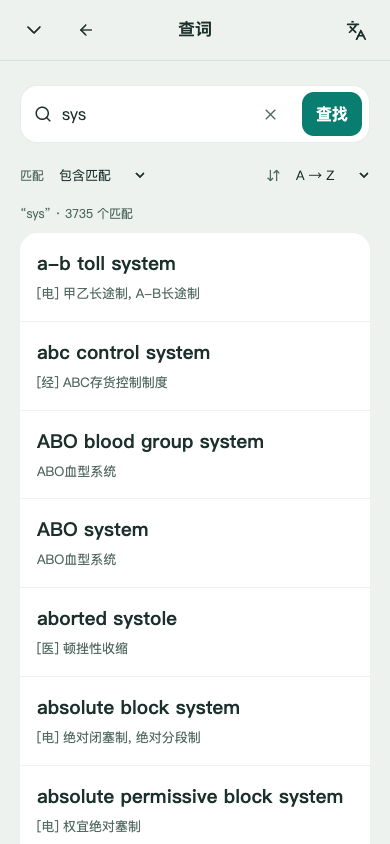
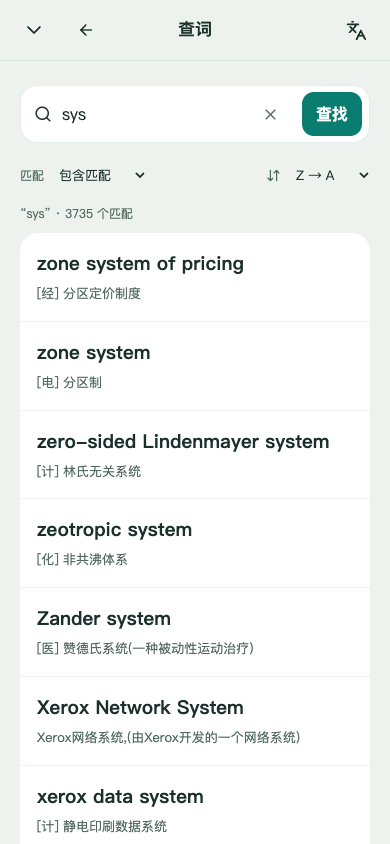
docs: record verified 0.11 release and deployments

diff --git a/docs/DEPLOYMENT.md b/docs/DEPLOYMENT.md
@@ -1,10 +1,10 @@
 # Alpha 运行与部署
 
-当前发布为 [`0.10.0-alpha.3`](https://github.com/wudi000888-svg/nightstudy/releases/tag/v0.10.0-alpha.3)，运行源码为 [`8cdb7fd3`](https://github.com/wudi000888-svg/nightstudy/commit/8cdb7fd31a39d7424fbd181d857466bf764cad9a)。[main CI](https://github.com/wudi000888-svg/nightstudy/actions/runs/38840374791) 与 [发行 CI](https://github.com/wudi000888-svg/nightstudy/actions/runs/38841110467) 均成功，公开镜像已完成匿名核验。本机 Native 与目标 VPS 均已升级并通过 `0.10.0-alpha.3` 就绪检查；固定镜像与升级范围见下文。
+当前发布为 [`0.11.0-alpha.1`](https://github.com/wudi000888-svg/nightstudy/releases/tag/v0.11.0-alpha.1)，运行源码为 [`8639ccaf`](https://github.com/wudi000888-svg/nightstudy/commit/8639ccaf66cec01f7b3f29f7bfe5893bec558108)。[main CI](https://github.com/wudi000888-svg/nightstudy/actions/runs/38856139140) 与 [发行 CI](https://github.com/wudi000888-svg/nightstudy/actions/runs/38856132567) 均成功，公开镜像已完成匿名核验。本机 Native 与目标 VPS 均已升级并通过 `0.11.0-alpha.1` 就绪检查；固定镜像与升级范围见下文。
 
-两端各 43 项 GET/HEAD 检查通过。移动视口另完成 Native 的 320、390、844 像素宽检查及 VPS 的 390 像素宽检查，分别发出 74、28 次匿名 GET；从 VPS 实际运行镜像提取并核验 84 份静态文件，包含 44 份预压缩文件；HTTP 比较使用这份服务器产物。这些是只读 HTTP 与浏览器验收，不包含生产学习写入、实体手机或逐条实际听审。
+两端各338项公开HTTP断言、120次匿名GET/HEAD通过，含服务端39份PWA静态资源的完整SHA/size/MIME。两端另各39项匿名Chromium手机视口检查通过，覆盖320/390/横屏、搜索分页、返回锚点、分义项例句与真实英美句音；无生产身份、收藏或评分写请求。这些不包含实体手机或逐条专家听审。
 
-0.10 未新增 Prisma schema 变更或 SQL 迁移，完整空库安装仍应用既有 15 份迁移；不能把“无新增迁移”写成新站不需要建表。内容覆盖为 18 本默认词书、18,767 个有效词目、69,840 条有效成员关系：实际学习焦点与查词首义有成对中英释义和词性，每词至少一条双语例句。该范围不等于 770,611 词典词目的全部义项、例句和发音均完备。文件、声学和结构校验不代替逐条专家语义审核或听辨；内容与音频详细范围见 [0.10 交付记录](CONTENT_BILINGUAL_POLISH_010.md)。
+0.11增加4个迁移，完整首装共19个；旧站从47张原表增量到50张表，保留旧记录。目录继续为18本、18,767个有效词目与69,840条成员关系；0.10词级内容作为来源和未绑定候选保留。新原子义项首包仅35词、98义、196条双语语境及392条英美句音，18,732词仍待逐义审核。未绑定句不借给其它意思，不宣称全词典770,611词逐义完备。范围、备份演练、上线与测试清理见 [0.11交付记录](LOOKUP_SENSES_011.md#15-发行与保数据升级状态)。
 
 Render、主机断电恢复、异机/密钥灾备、高并发容量及音源逐条专家听辨未验收。下文保留各历史版本的对应证据，标明版本的旧镜像与检查结果不代表当前运行版本。
 
@@ -26,7 +26,7 @@ docker compose up --build --detach --wait --wait-timeout 600 app
 # 用install.sh完成私密凭据导出；直接compose启动不会在宿主机生成导出文件。
 ```
 
-`init` 是新站完整初始化入口，运行 `pnpm db:prepare`：generate、逐站迁移、seed、首次管理员准备，再按 `CONTENT_PACK` 安装内容、按 `AUDIO_PACK` 安装音频并刷新音标覆盖统计。默认 `ecdict` 依次准备完整 ECDICT、考试词书、独立英美 IPA、词组，以及 v1、v2 双语文本；成品音频按 word-audio-v2、sentence-audio-v1、sentence-audio-v2 顺序安装。默认有效目录为 18 本、18,767 个词目和 69,840 条成员关系。安装成功后 app 启动，请求进程不重复运行迁移或初始化管理员。
+`init` 是新站完整初始化入口，运行 `pnpm db:prepare`：generate、逐站迁移、seed、首次管理员准备，再按 `CONTENT_PACK` 安装内容、按 `AUDIO_PACK` 安装音频并刷新音标覆盖统计。默认 `ecdict` 依次准备完整 ECDICT、考试词书、独立英美 IPA、词组、v1/v2双语文本及learning-senses-v1首包；成品音频按word-audio-v2、sentence-audio-v1、sentence-audio-v2、sentence-audio-v3顺序安装。默认有效目录为18本、18,767个词目和69,840条成员关系，逐义项覆盖仍以前文首包为限。安装成功后app启动，请求进程不重复运行迁移或初始化管理员。
 
 安装和运行不下载语音引擎或模型，不进行服务端即时合成、浏览器语音兜底。默认 `ADMIN_BOOTSTRAP=auto`，新站用户名 admin、密码各站随机生成；已初始化站点不重置账号。`manual` 模式保留 `BOOTSTRAP_TOKEN` 和 `/setup`；`CONTENT_PACK=demo` 显式跳过完整包，基础测试使用 manual/demo。既有站点升级按本页“备份与升级”选择增量步骤，不以重新 seed 代替内容升级。
 
@@ -40,17 +40,18 @@ Compose的admin-credentials卷仅init挂载到 `/app/.local/admin`，Web/app/wor
 
 PG 业务数据、内容源缓存与音频分别保存在 postgres-data、content-cache、audio-cache named volume；内容缓存挂载 `/app/.local/content`，音频缓存挂载 `/app/.local/audio`。init 与 app 共用校验后的成品媒体，app 不挂载初始管理员凭据卷。大型词典、音频和模型不塞入 Git 或应用镜像。
 
-默认完整安装下载三个固定成品音频包，逐项校验字节数和 SHA-256：
+默认完整安装下载四个固定成品音频包，逐项校验字节数和 SHA-256：
 
 | 成品包            | 固定附件版本   |  压缩字节数 | 音频条数 |
 | ----------------- | -------------- | ----------: | -------: |
 | word-audio-v2     | 0.9.0-alpha.1  | 208,218,687 |   37,550 |
 | sentence-audio-v1 | 0.9.0-alpha.1  | 304,612,309 |   16,808 |
 | sentence-audio-v2 | 0.10.0-alpha.1 | 369,105,500 |   18,878 |
+| sentence-audio-v3 | 0.11.0-alpha.1 |   7,758,221 |      392 |
 
-音频压缩包合计 881,936,496 字节，不含词典、其他文本/音标包、解压媒体、数据库、WAL、备份和升级暂存。真实大小、来源 URL 和摘要以 `data/word-audio-v2.manifest.json`、`data/sentence-audio.manifest.json`、`data/sentence-audio-v2.manifest.json` 为准。alpha.2、alpha.3 只修检查器、版本与文档，继续引用这些不可变成品，不重制内容附件。安装与运行无需 Piper、声学模型或翻译权重；缺音只能在开发机器离线制作、验收后另行发布。
+音频压缩包合计889,694,717字节，不含词典、其他文本/音标包、解压媒体、数据库、WAL、备份和升级暂存。真实大小、来源URL和摘要以`data/word-audio-v2.manifest.json`、`data/sentence-audio.manifest.json`、`data/sentence-audio-v2.manifest.json`、`data/sentence-audio-v3.manifest.json`为准。此前公开包保持不可变。安装与运行无需Piper、声学模型或翻译权重；缺音只能在开发机器离线制作、验收后另行发布。
 
-两个句音包合计存储 35,686 条；当前有效词书引用 17,814 条去重英文，对应 35,628 条英美目标，其余 58 条是 29 条旧句的双口音成品。不得以媒体总行数冒充当前例句数量。音频包安装逐站事务更新媒体与来源记录，保留既有合格真人录音优先级，只补空 IPA；文本 v2 的精确更正有独立的源绑定与严格事务规则，不能把音频安装规则概括成所有文本原值永远不变。
+0.10的v1/v2两个句音包合计存储35,686条；该版有效词书当时引用17,814条去重英文，对应35,628条英美目标，其余58条是29条旧句的双口音成品。0.11另新增196句/392条v3音频；旧词级句仍待逐义绑定，不以全部媒体行数冒充已发布原子义项的例句数。音频包安装逐站事务更新媒体与来源记录，保留既有合格真人录音优先级，只补空IPA；文本v2的精确更正有独立源绑定与严格事务规则，不能把音频安装规则概括成所有文本原值永远不变。
 
 重跑验证缓存和包身份，媒体丢失或摘要失败时按固定包恢复；摘要失败停止安装。600 秒为 CI smoke 的等待上限，不是安装耗时承诺；先检查 init 日志再决定是否调整。完整内容、严格安装与来源边界见 [CONTENT.md](CONTENT.md)、[PHONETICS.md](PHONETICS.md) 和 [0.10 交付记录](CONTENT_BILINGUAL_POLISH_010.md)。
 
@@ -165,27 +166,27 @@ Blueprint 显式设置 `CLIENT_IP_PROFILE=render-public`。该模式启动要求
 
 DeepSeek不是部署必填环境变量。各站管理员从本站后台可选配置加密API key；保存不发请求，仅手动test/preview调用固定官方上游。未配置不产生AI费用，配置后的主动调用由该key所属账户承担费用，结果仍不自动入库。轮换本站认证secret可能使已有DeepSeek与群站密文不可读，需同时规划重新配置和撤销/配对。详细限制和测试边界见 [AI_CONFIGURATION.md](AI_CONFIGURATION.md)。
 
-| 变量                                                 | 用途                                                                                                                                                                                                          |
-| ---------------------------------------------------- | ------------------------------------------------------------------------------------------------------------------------------------------------------------------------------------------------------------- |
-| DATABASE_URL                                         | 默认 site 的 PG URL；Compose 空值时使用内网 postgres，native 开发必须设真实 URL                                                                                                                               |
-| BETTER_AUTH_SECRET / BOOTSTRAP_TOKEN                 | 认证 secret 至少32字符，bootstrap token 32–256字符；每个 Realm 使用自己的随机值                                                                                                                               |
-| PUBLIC_URL / BASE_PATH                               | 规范公开地址与挂载路径；root basePath 是空字符串                                                                                                                                                              |
-| REGISTRATION_OPEN                                    | `true` / `false`；false 关闭普通注册，不代替初始化管理员                                                                                                                                                      |
-| HOST / PORT                                          | 进程监听；容器使用 `0.0.0.0:3000`，主机映射由 Compose 配置                                                                                                                                                    |
-| TRUST_PROXY_CIDRS                                    | socket模式的明确可信代理IP/CIDR，逗号分隔、默认空；不用于Realm Host选站                                                                                                                                       |
-| CLIENT_IP_PROFILE                                    | 默认socket；render-public仅在Render受控公网Web入口启用，health例外，私网服务不适用                                                                                                                            |
-| SITES_FILE                                           | operator 的私有站点数组文件，路径不是用户可控路由参数                                                                                                                                                         |
-| DB_POOL_SIZE / MAX_ACTIVE_SITES                      | 每 Realm 池上限和活动 Realm 上限；副本增加时审核全 cluster 预算                                                                                                                                               |
-| NIGHTSTUDY_HTTP_PORT                                 | Compose 主机回环端口，默认 5198                                                                                                                                                                               |
-| NIGHTSTUDY_IMAGE                                     | 可选已核验发行镜像；空值从当前 checkout 构建本地镜像                                                                                                                                                          |
-| CONTENT_PACK                                         | 默认 ecdict：完整源词典、考试词书、独立 IPA、词组及 v1/v2 双语文本；有效默认目录 18 本；demo 显式选择最小测试内容，音频另由 AUDIO_PACK 选择                                                                   |
-| AUDIO_PACK / AUDIO_CACHE_DIR / AUDIO_PYTHON          | AUDIO_PACK 空时 ecdict 用 standard、demo 用 none；standard 校验安装 word-v2、sentence-v1、sentence-v2 三个成品包，none 跳过；Docker 缓存 /app/.local/audio；Native 用 Python 3.11+受限解包，无需 Piper 或模型 |
-| CONTENT_FILE                                         | operator的本地ECDICT源文件；必须匹配固定大小/SHA256，缺失时不自动换源                                                                                                                                         |
-| ADMIN_BOOTSTRAP                                      | 默认auto，仅首次创建admin；manual保留/setup，既有管理员不重置                                                                                                                                                 |
-| ADMIN_CREDENTIALS_DIR                                | Native私密目录；Compose init固定/app/.local/admin，不挂给Web/worker                                                                                                                                           |
-| INITIAL_ADMIN_PASSWORD / INITIAL_ADMIN_EMAIL         | 单站私有初始覆盖；Render密码generateValue保管，多Realm不可共用                                                                                                                                                |
-| TRANSLATION_MODE                                     | 默认website-official；gateway用于生产站内结果，direct仅本机开发                                                                                                                                               |
-| TRANSLATION_GATEWAY_URL / TRANSLATION_GATEWAY_SECRET | 固定网关地址与独立私密token，不返回浏览器；详细约束见TRANSLATION.md                                                                                                                                           |
+| 变量                                                 | 用途                                                                                                                                                                                                                       |
+| ---------------------------------------------------- | -------------------------------------------------------------------------------------------------------------------------------------------------------------------------------------------------------------------------- |
+| DATABASE_URL                                         | 默认 site 的 PG URL；Compose 空值时使用内网 postgres，native 开发必须设真实 URL                                                                                                                                            |
+| BETTER_AUTH_SECRET / BOOTSTRAP_TOKEN                 | 认证 secret 至少32字符，bootstrap token 32–256字符；每个 Realm 使用自己的随机值                                                                                                                                            |
+| PUBLIC_URL / BASE_PATH                               | 规范公开地址与挂载路径；root basePath 是空字符串                                                                                                                                                                           |
+| REGISTRATION_OPEN                                    | `true` / `false`；false 关闭普通注册，不代替初始化管理员                                                                                                                                                                   |
+| HOST / PORT                                          | 进程监听；容器使用 `0.0.0.0:3000`，主机映射由 Compose 配置                                                                                                                                                                 |
+| TRUST_PROXY_CIDRS                                    | socket模式的明确可信代理IP/CIDR，逗号分隔、默认空；不用于Realm Host选站                                                                                                                                                    |
+| CLIENT_IP_PROFILE                                    | 默认socket；render-public仅在Render受控公网Web入口启用，health例外，私网服务不适用                                                                                                                                         |
+| SITES_FILE                                           | operator 的私有站点数组文件，路径不是用户可控路由参数                                                                                                                                                                      |
+| DB_POOL_SIZE / MAX_ACTIVE_SITES                      | 每 Realm 池上限和活动 Realm 上限；副本增加时审核全 cluster 预算                                                                                                                                                            |
+| NIGHTSTUDY_HTTP_PORT                                 | Compose 主机回环端口，默认 5198                                                                                                                                                                                            |
+| NIGHTSTUDY_IMAGE                                     | 可选已核验发行镜像；空值从当前 checkout 构建本地镜像                                                                                                                                                                       |
+| CONTENT_PACK                                         | 默认 ecdict：完整源词典、考试词书、独立 IPA、词组、v1/v2 双语文本与原子义项首包；有效默认目录18本；demo 显式选择最小测试内容，音频另由 AUDIO_PACK 选择                                                                     |
+| AUDIO_PACK / AUDIO_CACHE_DIR / AUDIO_PYTHON          | AUDIO_PACK 空时 ecdict 用 standard、demo 用 none；standard 校验安装 word-v2、sentence-v1、sentence-v2、sentence-v3 四个成品包，none 跳过；Docker 缓存 /app/.local/audio；Native 用 Python 3.11+受限解包，无需 Piper 或模型 |
+| CONTENT_FILE                                         | operator的本地ECDICT源文件；必须匹配固定大小/SHA256，缺失时不自动换源                                                                                                                                                      |
+| ADMIN_BOOTSTRAP                                      | 默认auto，仅首次创建admin；manual保留/setup，既有管理员不重置                                                                                                                                                              |
+| ADMIN_CREDENTIALS_DIR                                | Native私密目录；Compose init固定/app/.local/admin，不挂给Web/worker                                                                                                                                                        |
+| INITIAL_ADMIN_PASSWORD / INITIAL_ADMIN_EMAIL         | 单站私有初始覆盖；Render密码generateValue保管，多Realm不可共用                                                                                                                                                             |
+| TRANSLATION_MODE                                     | 默认website-official；gateway用于生产站内结果，direct仅本机开发                                                                                                                                                            |
+| TRANSLATION_GATEWAY_URL / TRANSLATION_GATEWAY_SECRET | 固定网关地址与独立私密token，不返回浏览器；详细约束见TRANSLATION.md                                                                                                                                                        |
 
 ## 备份与升级
 
@@ -217,40 +218,36 @@ docker compose exec -T postgres sh -c 'exec pg_restore -U "$POSTGRES_USER" --exi
 
 升级先保留可恢复备份、私有配置和当前应用/镜像身份，再按具体来源版本审阅代码、schema、内容包与安装器差异。不要把新站的 `db:prepare` 或默认 seed 命令直接当作既有站点升级脚本；不要假定回滚镜像会撤销数据库变更。
 
-- 从 0.9 升至本轮 0.10：无新增 SQL 迁移，但有严格文本 v2 与 sentence-audio-v2 增量；按核对过的站点身份、源绑定和成品摘要安装，验证全部有效词书及用户/业务保护，再切换应用。公开的纯内容入口为 `pnpm bilingual:prepare --pack v2 --site <configured-site-id>` 与 `pnpm audio:prepare`，它们不能代替已有生产站的备份、停服窗口与保护验收。
-- 已完成 alpha.1 内容升级后切换 alpha.3：文字、媒体和 schema 不变，仅更换已核对的应用产物；不重复执行 seed、迁移或内容/音频导入。只停止确认身份的本站 API；PG 和未知进程保持运行。运行中的应用可执行正常维护，因此不把纯应用切换说成做过数据库全行重验。
+- 本轮0.10→0.11：审阅并应用四个新迁移（原子义项、查询索引、绑定失效、例句版本外键），仅安装固定learning-senses-v1和sentence-audio-v3增量。媒体先预置；明确站点/库/OID/instance后，停本站写入、做新备份和before指纹，再迁移/严格安装/after/零变更重放，最后只切换应用。Native原环境/PG进程、VPS原PG/网关容器保持。允许接口不兼容不等于清库；本轮没有seed/reset或业务库restore。Native旧备份在独立测试库实际恢复并演练，VPS新备份仅核catalog。具体范围见[0.11记录](LOOKUP_SENSES_011.md#152-真实旧库演练与两端增量)。
 
-本轮 VPS 从 0.9 完成文本与音频增量安装，47 表精确预期及文本、音频各一次重复安装验证通过；新私密备份为 153,408,086 字节，归档目录可读性检查通过；本轮没有重复独立恢复演练，也未向业务库恢复。升级未执行 seed、迁移或恢复，PG 与翻译网关保留原容器身份。
+- 历史0.9升至0.10：无新增 SQL 迁移，但有严格文本 v2 与 sentence-audio-v2 增量；按核对过的站点身份、源绑定和成品摘要安装，验证全部有效词书及用户/业务保护，再切换应用。公开的纯内容入口为 `pnpm bilingual:prepare --pack v2 --site <configured-site-id>` 与 `pnpm audio:prepare`，它们不能代替已有生产站的备份、停服窗口与保护验收。
+- 历史0.10 alpha.1内容升级后切换alpha.3：文字、媒体和 schema 不变，仅更换已核对的应用产物；不重复执行 seed、迁移或内容/音频导入。只停止确认身份的本站 API；PG 和未知进程保持运行。运行中的应用可执行正常维护，因此不把纯应用切换说成做过数据库全行重验。
 
-Native 先在 alpha.1 完成完整内容安装及 47 表保护核验，再以纯应用替换升级到 alpha.3；补丁阶段未运行数据库安装器、未重导内容，也未重新做数据库全行散列。两端具体内容覆盖及验证范围见 [0.10 交付记录](CONTENT_BILINGUAL_POLISH_010.md)。
+0.10当时VPS从0.9完成文本与音频增量安装，47 表精确预期及文本、音频各一次重复安装验证通过；新私密备份为 153,408,086 字节，归档目录可读性检查通过；本轮没有重复独立恢复演练，也未向业务库恢复。升级未执行 seed、迁移或恢复，PG 与翻译网关保留原容器身份。
 
-收尾已按固定身份清理 8 个临时数据库、8 个表空间、3 个冷安装角色及 19 个临时备份/环境文件，共移除 765,651,082 字节私密文件；未使用强制删除数据库或终止未知客户端。清理未触及源站或生产数据，全部生产备份、验收证据与内容资产保留。该清理不构成业务库恢复演练或异机灾备证明。
+0.10当时Native先在alpha.1完成完整内容安装及 47 表保护核验，再以纯应用替换升级到 alpha.3；补丁阶段未运行数据库安装器、未重导内容，也未重新做数据库全行散列。两端具体内容覆盖及验证范围见 [0.10 交付记录](CONTENT_BILINGUAL_POLISH_010.md)。
 
-alpha 不提供自动无损跨版本恢复保证；本轮“无新增迁移”也不能推广到未来版本。
+0.10收尾按固定身份清理8个临时数据库、8 个表空间、3 个冷安装角色及 19 个临时备份/环境文件，共移除 765,651,082 字节私密文件；未使用强制删除数据库或终止未知客户端。清理未触及源站或生产数据，全部生产备份、验收证据与内容资产保留。该清理不构成业务库恢复演练或异机灾备证明。
+
+alpha 不提供自动无损跨版本恢复保证；0.10的“无新增迁移”不能推广到其它版本。
 
 ## CI 与镜像发行
 
-当前 `0.10.0-alpha.3` 对应源码 [`8cdb7fd31a39d7424fbd181d857466bf764cad9a`](https://github.com/wudi000888-svg/nightstudy/commit/8cdb7fd31a39d7424fbd181d857466bf764cad9a)；[main CI](https://github.com/wudi000888-svg/nightstudy/actions/runs/38840374791) 与 [发行 CI](https://github.com/wudi000888-svg/nightstudy/actions/runs/38841110467) 均成功。发行 verify 完成后才发布镜像，不以 main 通过代替镜像发行结果。
+当前`0.11.0-alpha.1`对应源码[`8639ccaf66cec01f7b3f29f7bfe5893bec558108`](https://github.com/wudi000888-svg/nightstudy/commit/8639ccaf66cec01f7b3f29f7bfe5893bec558108)；[main CI](https://github.com/wudi000888-svg/nightstudy/actions/runs/38856139140)与[发行CI](https://github.com/wudi000888-svg/nightstudy/actions/runs/38856132567)均成功。发行verify完成后才发布镜像，不以main通过代替镜像发行结果。
 
-本机回归基线为 85 份测试文件 / 734 项、10 组 Python / 138 项和检查器修正版 169 项自测。发行工作流已通过完整 Compose 首装、原始内容快照、严格内容安装和实际媒体检查，并完成镜像发布。alpha.1 的检查器错误及 alpha.2 的格式检查失败保留为历史；这两轮未发布容器，固定内容附件继续按原版本使用。
+本机冻结基线为93份测试文件/794项、12组Python/155项、两类检查器186项自测，四组类型检查、格式与隔离构建通过。CI在双PG17测试库执行回归，另外在独立Compose project完成默认ecdict首装、原始内容快照保护、严格增量/重放及四包音频检查；基础测试配置显式demo/manual。新站共19迁移，不在启动请求中执行迁移。
 
-本轮已公开核验的固定发行 OCI index：
+已公开核验、VPS实际运行的固定OCI index：
 
 ```text
-ghcr.io/wudi000888-svg/nightstudy@sha256:fa7b1d2475ca1742414a0a45f51fdf9b078ed37156a0ee35bd3bc581f4f35017
+ghcr.io/wudi000888-svg/nightstudy@sha256:9b996ca6957c52488763458b4ed1c6753383ac6a0cb373dc65958318e0a188fe
 ```
 
[2 lines of base64/hex data omitted]
 
-当前 CI 对 PR/main 及复用的发行 verify 执行锁文件安装、格式、双 PG17 测试库准备、站点检查、类型、构建、全量测试及离线工具/检查器自测。基础测试库显式使用 demo/manual；另外构建容器，在独立 Compose project 中执行默认 ecdict 完整首装。
+完整首装保留770,611基础词典、18本书/69,840有效成员和0.10文本来源与候选，再安装35词/98原子义项/196独立语境及392句音身份。独立检查原源行不变、来源摘要、同词同版、每义两个语境及成品文件；不把保留的旧词级句当成全部义项配句完成。随机初始admin实际登录和闭合网关未鉴权401另验，它们不证明Google上游可用。600秒为Compose smoke等待上限；清理只针对当前CI的独立project。
 
-完整首装先创建原始 canonical 内容摘要快照，再由默认 init 安装词典、音标、考试词书、词组和 v1/v2 双语文本，以及三个固定成品音包。完成后检查实际 770,611 词典声明、18 本默认词书、69,840 条有效成员、18,767 个有效词的成对首义/实际焦点与词性、逐词双语例句、历史目标保护和精确更正来源链；当前句音引用为 17,814 句 / 35,628 个英美目标，并校验包内媒体。随机初始 admin 实际登录和闭合网关未鉴权 401 单独验证；它们不证明 Google 上游可用。600 秒等待是 smoke 上限。清理仅针对当前 CI 独立 project 的容器与卷。
-
-上述流程已在本轮 main 与发行 verify 中通过。checker 的结构检查与文件抽样不替代发布前新句音 18,878 条独立全解码，更不替代逐条专家听审。
-
-`release.yml` 仅在维护者发布 GitHub Release 时触发；tag 使用 `v0.10.0-alpha.3` 等 v 前缀 SemVer，并必须与根 package.json 版本一致。verify 复用完整 CI，成功后才使用 GITHUB_TOKEN 推送 GHCR，保留版本、源码 revision、provenance 和 SBOM。公开仓库不保证 package 自动公开，须另验匿名 OCI 访问，并按核对过的 index digest 部署。
-
-新站按前文准备私有 `.env`、随机密钥与 HTTPS 入口后，将 `NIGHTSTUDY_IMAGE` 配置为本节给出的 0.10.0-alpha.3 固定引用，使用 `docker compose up --detach --no-build --wait app` 启动。新站 init 负责首次管理员、既有 schema 迁移及完整内容，凭据按前文私密导出；既有站点按“备份与升级”执行已审阅的增量流程。`scripts/install.sh` 是源码构建入口，采用发行摘要时不加 `--build`。历史镜像摘要仅供追溯，部署不依赖浮动 latest。[GitHub 官方镜像发布文档](https://docs.github.com/en/actions/tutorials/publish-packages/publish-docker-images)
+`release.yml`仅在发布GitHub Release时触发；tag如`v0.11.0-alpha.1`须与package.json版本相同。公开仓库不保证GHCR package自动公开，仍需匿名核验。新站准备私有`.env`、密钥与HTTPS后，将`NIGHTSTUDY_IMAGE`设为上述固定引用，使用`docker compose up --detach --no-build --wait app`；init准备新站管理员与内容。已有站点按前文增量，不重新seed。`scripts/install.sh`为源码构建入口，使用发行镜像时不加`--build`。不依赖浮动latest；[GitHub镜像发布文档](https://docs.github.com/en/actions/tutorials/publish-packages/publish-docker-images)。
 
 以下保留旧版发行记录，分别对应当时的源码与验收范围。
 

diff --git a/docs/LOOKUP_SENSES_011.md b/docs/LOOKUP_SENSES_011.md
@@ -1,6 +1,6 @@
 # 夜读英语：查词、原子义项与语境例句设计
 
-日期：2026-10-16　状态：用户已批准全量施工，不兼容旧版；功能实现及本机隔离验收完成，发行/部署状态另列，不把内容首包当全词书逐义完成。源码审计基点：`5e3f7023df8edd5e97ee87a246f6abe5c3235a18`。
+日期：2026-10-16　状态：用户批准全量施工、不兼容旧版；功能实现、发行及两端部署验收完成，内容首包不等于全词书逐义完成。源码审计基点：`5e3f7023df8edd5e97ee87a246f6abe5c3235a18`；运行发行源码：`8639ccaf66cec01f7b3f29f7bfe5893bec558108`。
 
 本稿把“查到正确词形—辨认具体词义—在匹配语境中理解—听对应句音—收藏或继续学习”连成移动 H5 流程。产品保持浅青学习背景、清晰内容面与独立页面栈；首页四区、既有学习调度及数据保护规则继续遵循仓库 AGENTS.md 和 H5_APP_REDESIGN.md。
 
@@ -294,4 +294,43 @@ node scripts/check-learning-senses-install.mjs --single-site default
 
 ## 15. 发行与保数据升级状态
 
-0.11候选已完成上述本机功能与内容验证。现有Native部署的160,073,360字节私密备份已在55441独立随机测试库成功恢复（15条原迁移、770,611词及原2用户），未向业务库恢复或启动该恢复库的应用。四迁移增量、全部原业务表保护及重放演练正在执行；GitHub CI、默认Compose冷安装、镜像发布及生产切换尚待本节以真实结果补记。
+### 15.1 公开发行
+
+`0.11.0-alpha.1`已发布，运行源码为[`8639ccaf66cec01f7b3f29f7bfe5893bec558108`](https://github.com/wudi000888-svg/nightstudy/commit/8639ccaf66cec01f7b3f29f7bfe5893bec558108)。[main CI](https://github.com/wudi000888-svg/nightstudy/actions/runs/38856139140)与[发行 CI](https://github.com/wudi000888-svg/nightstudy/actions/runs/38856132567)均成功，包含默认完整Compose冷安装、原内容保护和四包成品音频检查。发行才发布镜像；未用main成功替代发行verify。公开附件的完整匿名下载、字节数与SHA核验通过，v1内容和v3句音的固定摘要见前文，发布后不覆盖同名包。
+
+匿名OCI实读确认version/revision/linux-amd64和响应digest一致；VPS使用空Docker认证配置拉取并运行同一固定index：
+
+```text
+ghcr.io/wudi000888-svg/nightstudy@sha256:9b996ca6957c52488763458b4ed1c6753383ac6a0cb373dc65958318e0a188fe
+```
+
+流水线附带provenance/SBOM；一个attestation描述符不代表有arm64运行镜像。
+
+### 15.2 真实旧库演练与两端增量
+
+Native旧部署的160,073,360字节私密备份已在55441的独立随机测试库两次实际恢复，原15条迁移、770,611词及2用户保留。最终工具在全新恢复库完成before→apply→replay：原47张表的全部旧行指纹不变，新增4条迁移后为50张表，精确增加98学习义项、98来源绑定、196例句、392句音身份与2内容包；再次执行业务新增/改写均0。新列默认值、复合外键、来源失效触发器、GIN/C排序索引与迁移checksum另行核对。演练中发现的SQL别名排序、列类型解析和空revision流完成时序问题均修复，最终完整重跑通过；旧失败日志和恢复后的核对证据保留，没有放宽比较规则。
+
+真实Native和VPS均已按同样范围完成增量、全旧行保护与零变更重放，再切换应用，ready均为`0.11.0-alpha.1`。只停止既有本站API：Native原PG进程、VPS原PG/翻译网关容器身份保持；未运行seed/reset、未向业务库restore、未终止未知客户端。各自停写后另外创建新custom备份并核验catalog；本次VPS新备份没有再次实际恢复，不能用Native恢复结果代替它。数据库相等证明截至应用启动前replay，启动后的正常维护/访问不宣称全行不变。
+
+Native沿用完整原环境和cwd，新API PID78913、原PG PID34947。新API/core/web产物存于外置盘；原API/core目录复制到外置私有备份、逐文件核hash后精确移除临时目录，旧web产物保留。实时dist链接已加入Git忽略，后续不要把构建命令直接写进这些正在运行的链接，应继续隔离构建再切换。VPS实际current已切到新release、镜像与源码label核对通过。原SSH传输在远端completed和HTTP/浏览器均核实后仍长留，最终仅关闭该本机SSH进程；不把其退出码当作远端升级成功证据，也未因此重跑部署。
+
+### 15.3 上线后公开验收与清理
+
+| 检查                     | Native                 | VPS                    |
+| ------------------------ | ---------------------- | ---------------------- |
+| 匿名HTTP                 | 338断言、120次GET/HEAD | 338断言、120次GET/HEAD |
+| 匿名Chromium手机视口     | 39检查、9图、62次响应  | 39检查、9图、61次响应  |
+| 页面与控制台错误         | 0                      | 0                      |
+| 生产身份/收藏/评分写请求 | 0                      | 0                      |
+
+两端均检查18本书、770,611词声明、sys匹配与全局排序、两页40项无重复、游标篡改/换条件拒绝、显式systme建议、bank/charge义项及精确例句、四个异读词禁音、真实媒体字节/SHA、HEAD/206/304/缺音404，以及服务端发布的39份PWA静态资源完整SHA与MIME。浏览器覆盖390×844、320×568及横屏、壳与系统返回333→333锚点、两义四句和真实US3.680秒/UK2.682秒播放及切换pause。VPS有一次允许的迟到详情GET取消（ERR_ABORTED），没有对应404/5xx；两端无跨源或写请求尝试。实体iOS/Android、真实软键盘与VPS容量未实测。
+
+首轮Native HTTP验收器误将phoneticSource来源标识当成IPA而失败；保留原失败JSON，修正公共DTO断言后两端完整重验338项通过。业务代码未为通过检查而改变，禁音仍核对false、全部实际IPA/音源为空、直接GET/HEAD404。该过程的诊断和旧证据均保留。
+
+最终验收后按固定55441集群system identifier、PID/端口/data与逐库OID清理5个测试库；无其它客户端才普通DROP，smart stop后仅删除本轮独立pg-data及空socket，并按hash移除5份测试环境/QA凭据文件。未强制删库、未终止未知客户端。原生产数据、两端新旧备份、失败/成功演练收据、runtime快照、实际运行build与媒体全部保留在私有位置。
+
+证据根目录为`/Volumes/XXX/Codex/work/nightstudy/011/`：`final-acceptance.private.json`、`native-public-smoke-v2.json`、`vps-public-smoke-v2.json`、两端`public-browser-20261016/browser-receipt.private.json`、`rehearsal-final-a76a099a2f48680af3ef302f/`、`deploy-native-7de7ac8434b191e425b5ca6e/`、`vps-upgrade-evidence-d855d3273776c1ba34682c14/`和`cleanup-9c680746c3dfb011f7bc50fe/`。VPS原始生产备份/收据仍在本站私有shared目录。它们不上传公开仓库。
+
+### 15.4 尚未完成的内容范围
+
+平台能力已上线，原子义项首包仍仅35词/98义/196句及392英美句音，35词也不宣称所有词义穷尽。18,732个有效内置词仍待逐义审核，其余全词典范围更大；0.10的词级例句不自动挂到每个新义项。后续沿13.3的逐词队列制作新不可变包，不能把本次功能上线描述为全部词书逐义完成。没有调用付费AI内容接口或下载语言模型，静态声学校验也不代替逐句专家听审。

diff --git a/README.md b/README.md
@@ -13,13 +13,13 @@
 
 [查看个人记忆页面](docs/media/memory-preview.png) · [开发路线与问题](https://github.com/wudi000888-svg/nightstudy/issues) · [部署指南](docs/DEPLOYMENT.md)
 
-**当前发布：[0.10.0-alpha.3](https://github.com/wudi000888-svg/nightstudy/releases/tag/v0.10.0-alpha.3)。** 补齐18本内置词书的成对释义、词性和双语例句，扩充静态英美句音，精修小屏阅读、词卡和音频反馈，并优化书架查询。已通过完整 CI 和 Compose 冷安装，并完成本机及 VPS 升级、公开 HTTP 与移动页面验收。发行镜像与实际覆盖见 [0.10交付记录](https://github.com/wudi000888-svg/nightstudy/blob/main/docs/CONTENT_BILINGUAL_POLISH_010.md)。
+**当前发布：[0.11.0-alpha.1](https://github.com/wudi000888-svg/nightstudy/releases/tag/v0.11.0-alpha.1)。** 已通过完整 CI、Compose 冷安装和保数据升级演练，并在本机及 VPS 部署。两端分别通过338项公开接口与资源检查、39项匿名手机浏览器检查；逐义项例句、搜索与实际发音验证见 [0.11交付记录](docs/LOOKUP_SENSES_011.md#15-发行与保数据升级状态)。
 
-**0.11 改造正在验收：** 查词支持智能、前缀、包含、精确匹配及显式错拼建议，公共查词与本人生词本独立，服务端全局排序和签名游标保证分页条件。原子学习义项各自绑定不同语境的双语例句；首包为35词、98义、196句和392条英美成品句音，其余18,732个内置词仍待逐义审核，不能把旧词级例句当作每个意思的配句。源码实现、内容边界和验证记录见 [查词与义项改造](docs/LOOKUP_SENSES_011.md)。
+查词支持智能、前缀、包含、精确匹配及显式错拼建议，公共查词与本人生词本独立，服务端全局排序和签名游标保证分页条件。原子学习义项各自绑定不同语境的双语例句；首包为35词、98义、196句和392条英美成品句音，其余18,732个内置词仍待逐义审核，不能把旧词级例句当作每个意思的配句。源码实现、内容边界和验证记录见 [查词与义项改造](docs/LOOKUP_SENSES_011.md)。
 
 <img src="docs/media/mobile-lookup-0.11.png" alt="包含匹配与服务端排序" width="260"> <img src="docs/media/mobile-sense-0.11.png" alt="河岸义项及对应双语语境" width="260">
 
-0.11 本机隔离构建的匿名真实接口页面：查词列表与 bank 河岸义项。
+0.11 线上匿名真实页面：查词列表与 bank 河岸义项。
 
 保留单屏H5首页、独立页面栈、Learn / Review、雨夜动态和管理员自定义壁纸，支持主屏幕安装与用户确认的安全更新。早期交付及来源说明见 [0.9记录](docs/CONTENT_AUDIO_PERFORMANCE_09.md)、[开放内容与代码复用](docs/OPEN_CONTENT_REUSE.md) 和 [雨夜外观](docs/RAIN_NIGHT_UI.md)。
 
@@ -88,6 +88,8 @@ Native的db:prepare也默认创建首次admin，将私密初始记录写到 `.lo
 架构约定见 [架构](docs/architecture/ARCHITECTURE.md)、[多站与并发方案](docs/architecture/MULTISITE_AND_SCALING.md)。PgBouncer、Redis provider、跨主机 HA 和实测高并发容量仍待完成。当前 API 契约见 [API.md](docs/API.md)。词典/词书分页和学习选词不再被前 500/1,000 词截断；熟词导出以游标分批流式输出全部记录。
 
 ## 验证记录
+
+0.11.0-alpha.1 的93份测试文件/794项、155项Python及186项检查器自测、四组类型检查和隔离构建通过。[main CI](https://github.com/wudi000888-svg/nightstudy/actions/runs/38856139140) 与 [发行 CI](https://github.com/wudi000888-svg/nightstudy/actions/runs/38856132567) 完成完整Compose冷安装；固定linux/amd64镜像已匿名核验并部署。旧库备份在独立测试库实际恢复，四迁移增量和重放保护通过；Native与VPS各338项HTTP检查、39项匿名Chromium手机视口检查通过，未在生产创建测试用户或评分。实体手机、逐句专家审核及VPS并发容量仍未验收。范围与证据见 [本轮记录](docs/LOOKUP_SENSES_011.md)。
 
 0.10.0-alpha.3 的 85 份测试文件 / 734 项、Python 138 项、检查器 169 项，以及完整类型和格式检查均通过。[main CI](https://github.com/wudi000888-svg/nightstudy/actions/runs/38840374791) 与 [发行 CI](https://github.com/wudi000888-svg/nightstudy/actions/runs/38841110467) 均通过真实 Compose 冷安装、原始内容保护及三包音频检查。Native 与 VPS 已升级，各 43 次公开 HTTP 检查及匿名手机页面复核通过；47 表增量/重放保护、制作复现及实际范围见 [0.10 记录](docs/CONTENT_BILINGUAL_POLISH_010.md#最终发行与两端部署2026-10-16)。
 

diff --git a/AGENTS.md b/AGENTS.md
@@ -30,6 +30,14 @@ Use the existing H5 shell. Rain-night movement must be inexpensive and stop for 
 
 ## Completed content and polish release, 2026-10-16
 
-The user selected public corpora plus Codex batch authorship only: no paid AI content calls or downloaded translation/language models for this work. Release `0.10.0-alpha.3`, source `8cdb7fd31a39d7424fbd181d857466bf764cad9a`, is published and running on Native and the VPS. Main and release CI, complete Compose cold installation with original-content baseline, 47-table increment/replay checks, both 43-request public HTTP checks and anonymous mobile pages passed. See `docs/CONTENT_BILINGUAL_POLISH_010.md` for scope and actual evidence; `docs/DEPLOYMENT.md` contains the current immutable image and upgrade boundaries.
+The user selected public corpora plus Codex batch authorship only: no paid AI content calls or downloaded translation/language models for this work. Historical release `0.10.0-alpha.3`, source `8cdb7fd31a39d7424fbd181d857466bf764cad9a`, passed main/release CI, complete Compose cold installation with original-content baseline, 47-table increment/replay checks, both 43-request public HTTP checks and anonymous mobile pages. See `docs/CONTENT_BILINGUAL_POLISH_010.md` for that scope and evidence; the current release is recorded below.
 
 The completed scope is 18 built-in books, 18,767 active lemmas and 69,840 memberships; paired learning focus/primary definitions and POS, at least one bilingual usage per active word, and both accents for the 17,814 currently referenced unique sentences. This does not make every sense of the 770,611-word dictionary complete or expert-reviewed. Published content/audio pins remain immutable; alpha.3 reuses alpha.1 assets. Keep the simple mobile learning UI and original source/history protection. All task-specific rehearsal databases and exact temporary credential/dump files were cleaned; production backups and verification evidence remain private.
+
+## Atomic meanings and lookup release, 2026-10-16
+
+The user explicitly authorized full implementation of `docs/LOOKUP_SENSES_011.md` with no old-client/API compatibility. Release `0.11.0-alpha.1`, source `8639ccaf66cec01f7b3f29f7bfe5893bec558108`, is published and running on Native and the VPS. Main/release CI, full default Compose cold installation, actual old Native backup restore, four-migration increment/replay and all original-row protection passed. Both targets passed 338 public HTTP assertions/120 GET-HEAD requests and 39 anonymous Chromium mobile-view checks, including real audio playback; no production test accounts or learning mutations were created. See that design document section 15 and `docs/DEPLOYMENT.md` for current immutable image and actual limits.
+
+Lookup and private wordbook are distinct pathname scopes; smart/exact/prefix/contains matching, explicit typo suggestions, global sorting, signed version-bound keyset and list-anchor restoration are implemented. LearningSense/source bindings and version-bound examples keep different meanings separate. Raw dictionary definitions and unbound candidate examples are retained as evidence, never appended to each learning meaning. First atomic pack covers only 35 words/98 meanings/196 examples and 392 static US/UK clips; 18,732 built-in active words still await atomic review, and 35 words are not an exhaustive sense inventory. Do not describe this as all-wordbook per-sense completion. Published v1/v3 pins are immutable. Current negative pronunciation policy suppresses unverified heteronym word audio/IPA even for held meanings and issued snapshots; sentence audio remains separately usable.
+
+Native production API/core/web dist paths are symlinks to the verified external build under `/Volumes/XXX/Codex/work/nightstudy/011/build-9a2d15d64ec17e4e`. Do not run a build that overwrites these live paths. Stage and verify new artifacts separately before a controlled switch. API PID 78913/PG PID 34947 describe this completed operation, not a permanent future PID assumption. Production databases/backups, private runtime snapshots and verification evidence remain; five 011 test DBs, five exact test credentials and only the stopped 55441 test cluster were cleaned. No business DB was restored/reset/seeded. Re-read actual receipts before resuming operational work; a GitHub Release alone does not prove deployment.

diff --git a/CHANGELOG.md b/CHANGELOG.md
@@ -2,7 +2,7 @@
 
 ## 0.11.0-alpha.1 — 按词义学例句与移动查词
 
-施工与隔离验收中；发行、冷安装和线上状态按 [本轮记录](docs/LOOKUP_SENSES_011.md) 的实际证据更新。
+2026-10-16 已发布并在 Native 与 VPS 部署。main/发行 CI、完整 Compose 冷安装、旧库恢复后的四迁移增量与重放通过；两端各338项HTTP及39项匿名手机浏览器检查通过。首包内容范围和未完成义项见 [本轮记录](docs/LOOKUP_SENSES_011.md)。
 
 - 新增原子学习义项、精确来源绑定和逐义语境例句；来源漂移自动挂起，跨词或跨内容版本的例句由复合外键拒绝。保留canonical wordId、原始词典及已签发题目、收藏快照和FSRS记录，不添加旧接口兼容层。
 - 首包包含35词、98义、196条不同语境双语例句，每义至少两语境；新增392条本机离线制作并校验的英美句音。其余18,732词仍待逐义审核，35词也不宣称词义穷尽。异读词未核对的词级读音暂留空。
